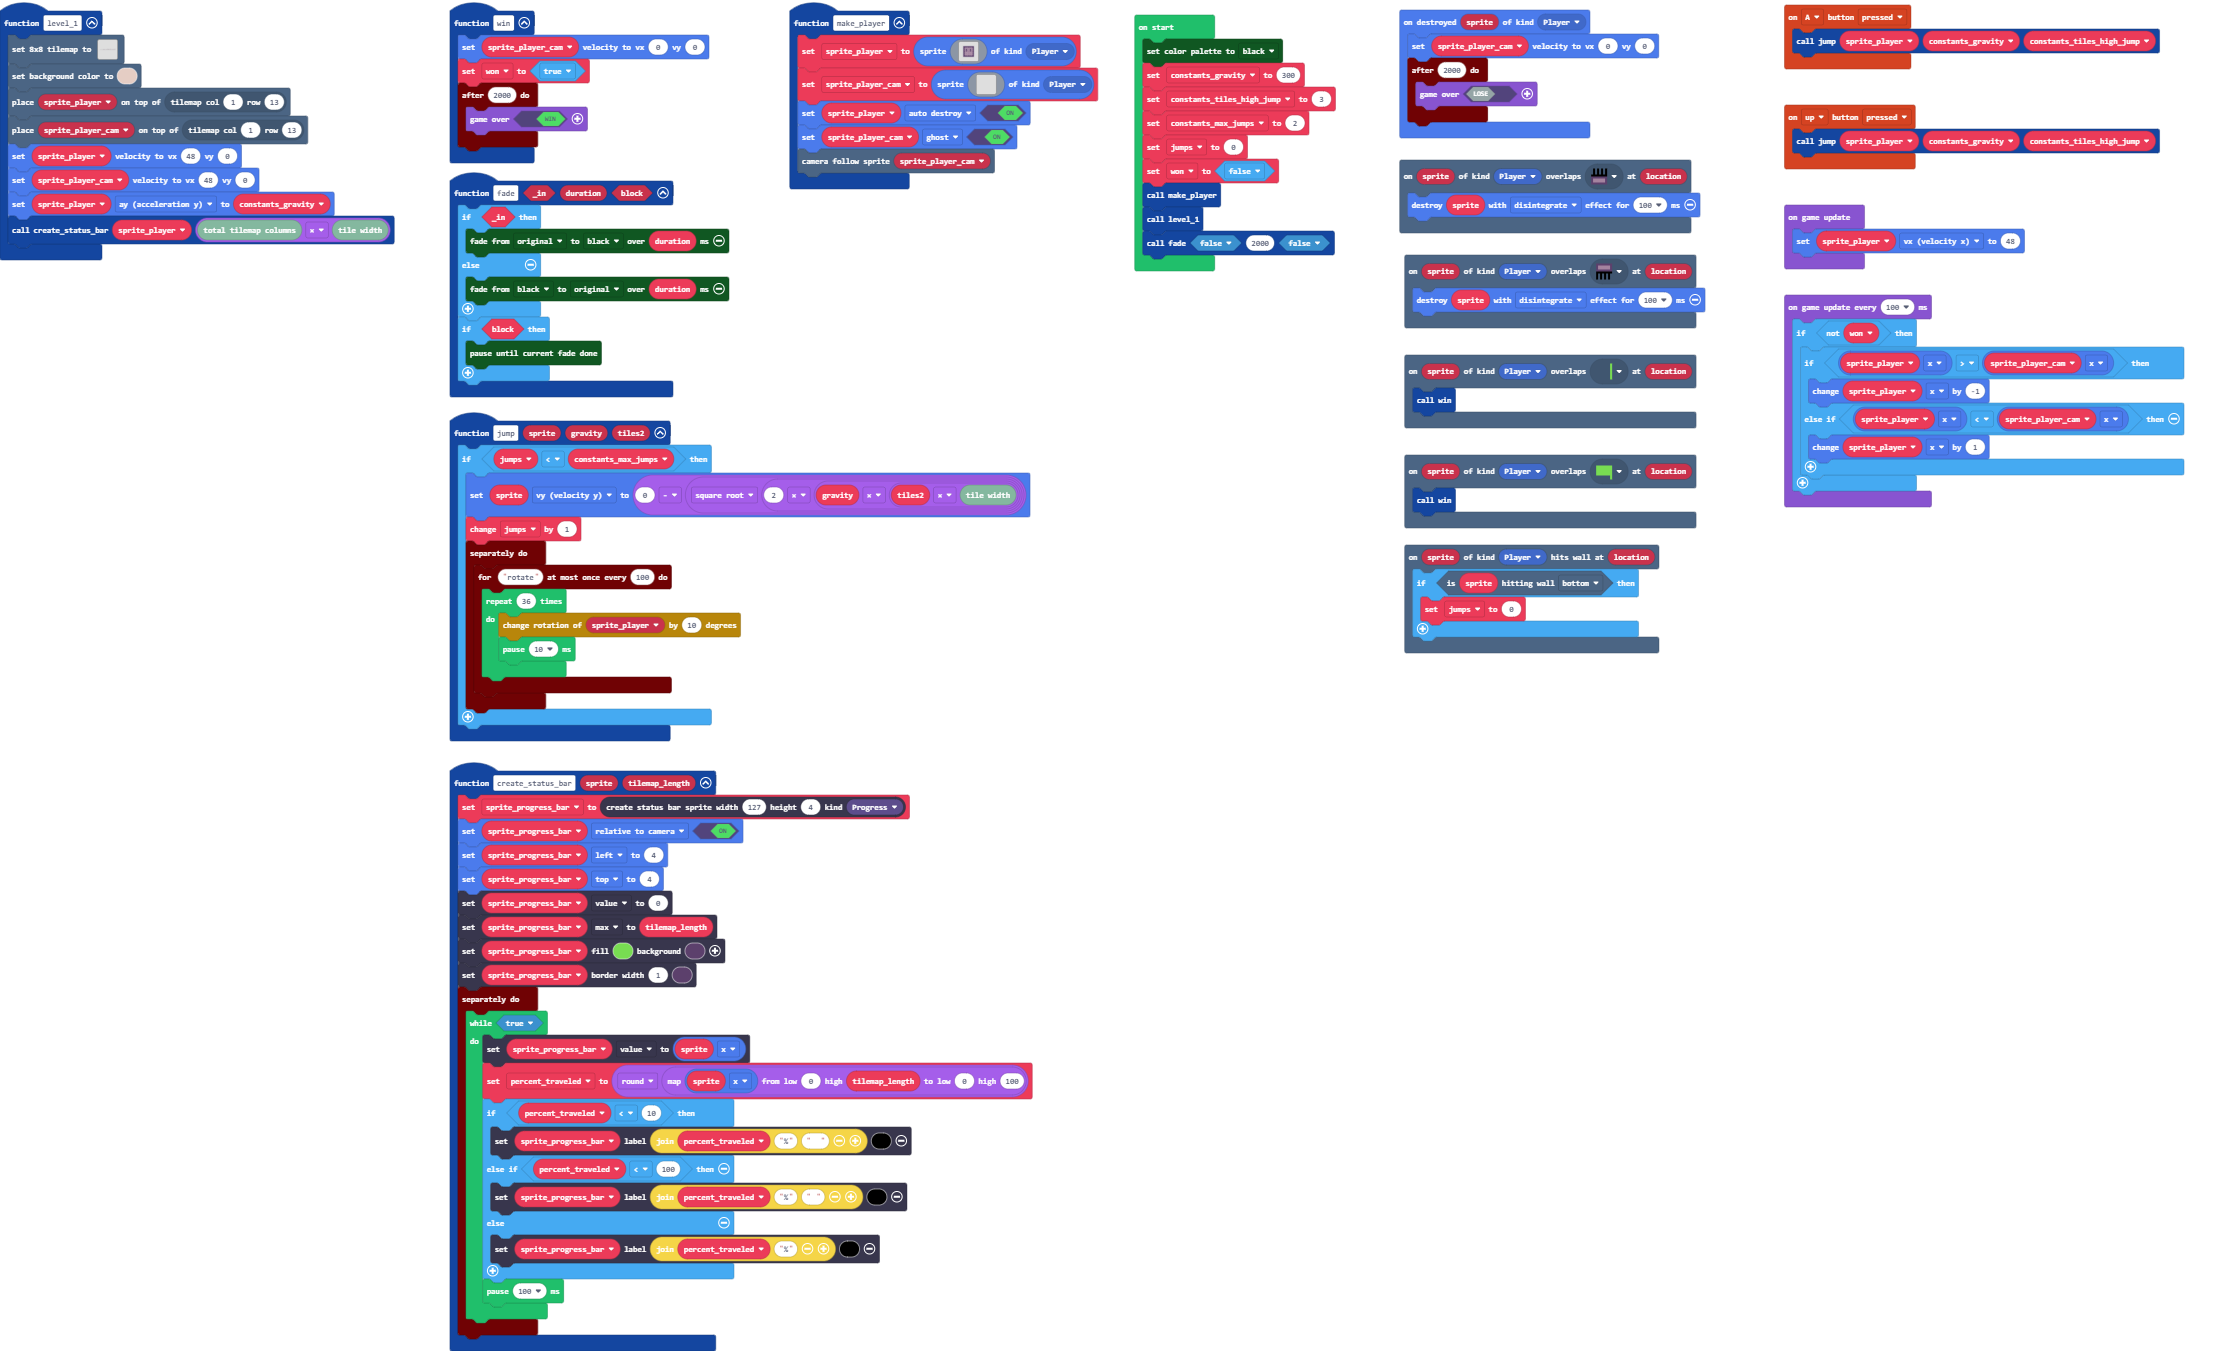
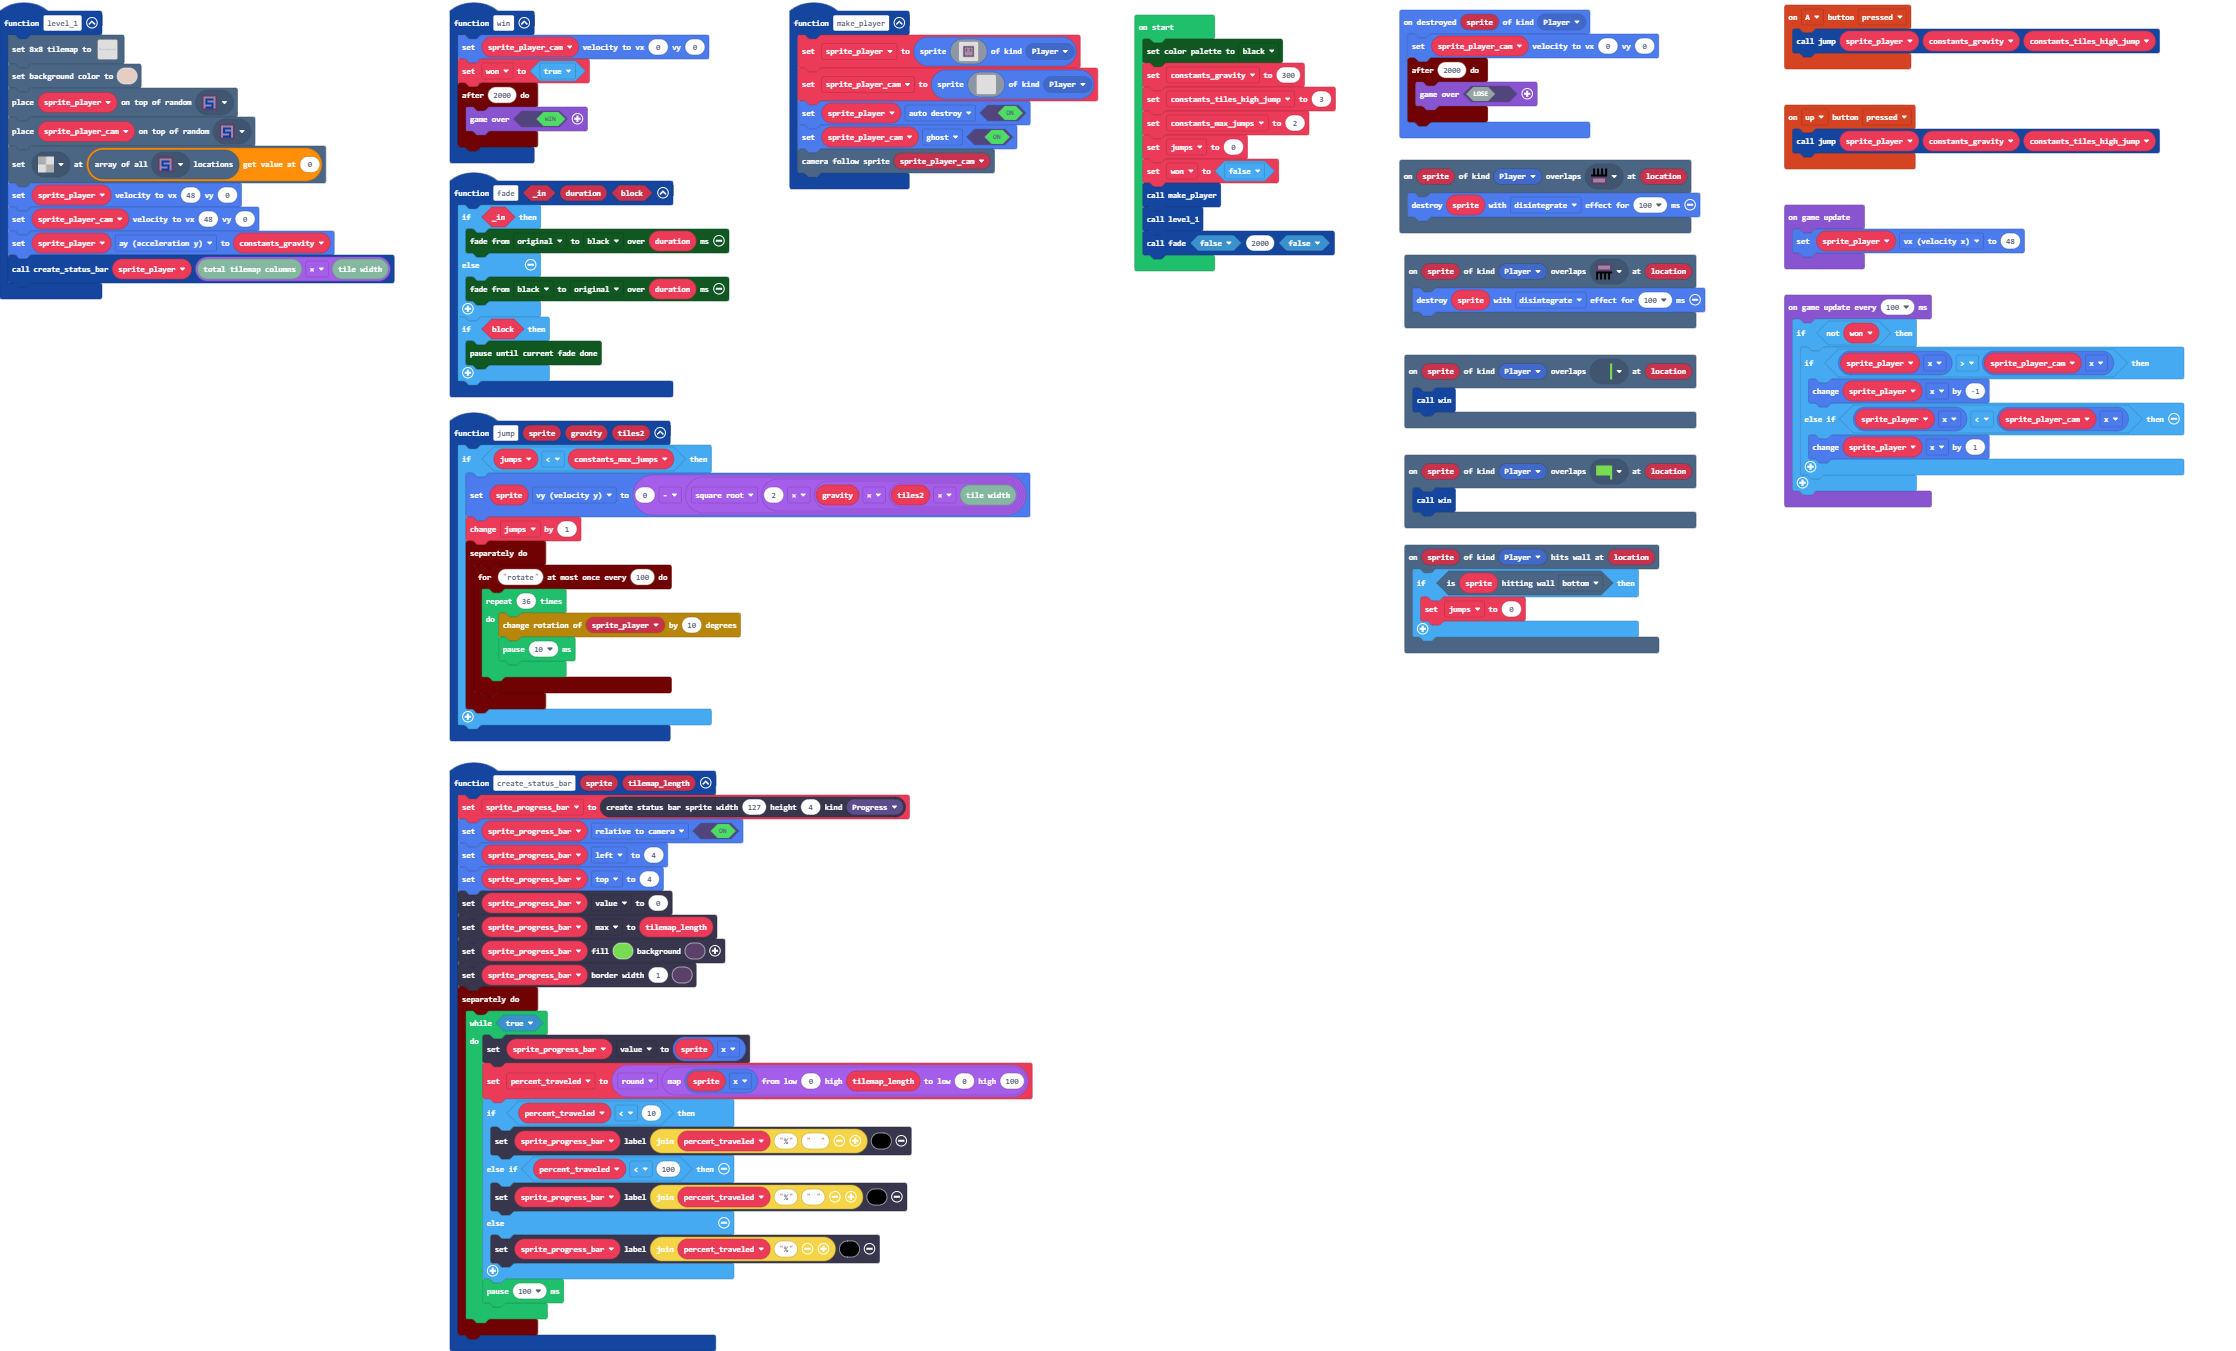
Don't hardcode start position

Changed region(s): [[0.0, 0.0622, 0.1852, 0.2487]]

diff --git a/tilemap.g.ts b/tilemap.g.ts
@@ -23,7 +23,7 @@ namespace myTiles {
 
     helpers._registerFactory("tilemap", function(name: string) {
         switch(helpers.stringTrim(name)) {
-            case "level1":
+            case "level_1":
[1 lines of base64/hex data omitted]
 222222222222............................................................................................................................................................................................
 222222222222............................................................................................................................................................................................

diff --git a/main.ts b/main.ts
@@ -93,7 +93,7 @@ sprites.onDestroyed(SpriteKind.Player, function (sprite) {
     })
 })
 function level_1 () {
-    tiles.setSmallTilemap(tilemap`level1`)
+    tiles.setSmallTilemap(tilemap`level_1`)
     scene.setBackgroundColor(13)
     tiles.placeOnRandomTile(sprite_player, assets.tile`start`)
     tiles.placeOnRandomTile(sprite_player_cam, assets.tile`start`)
